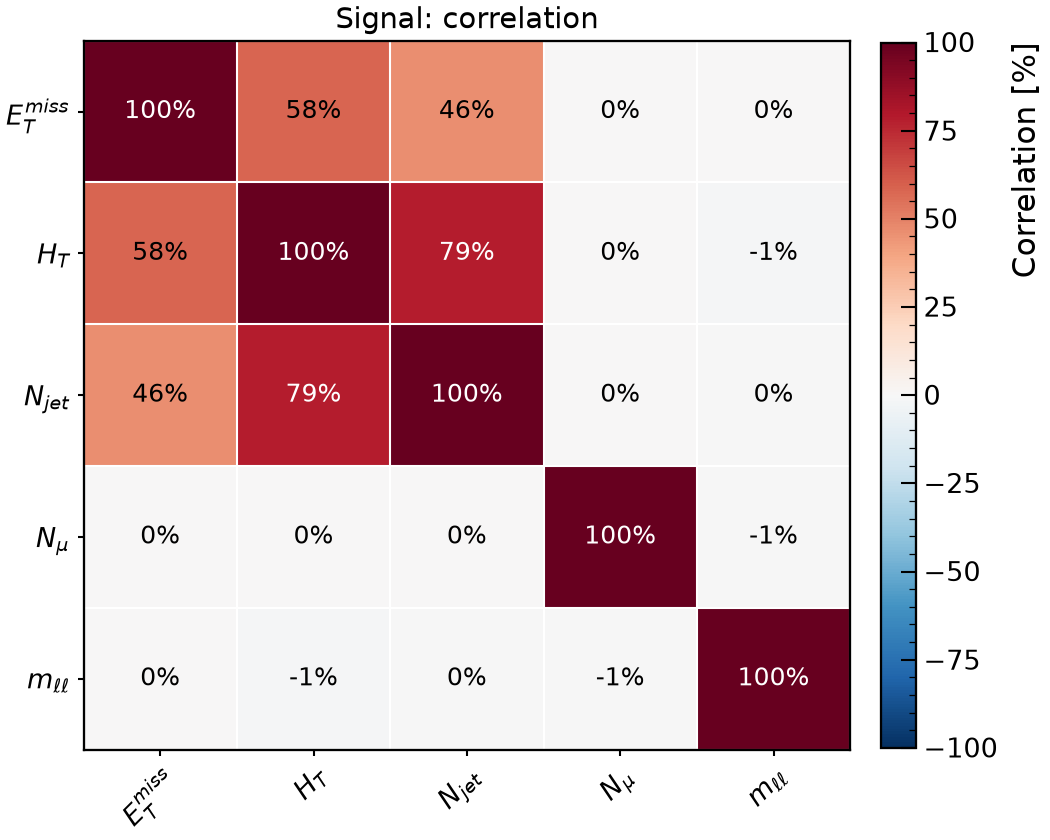
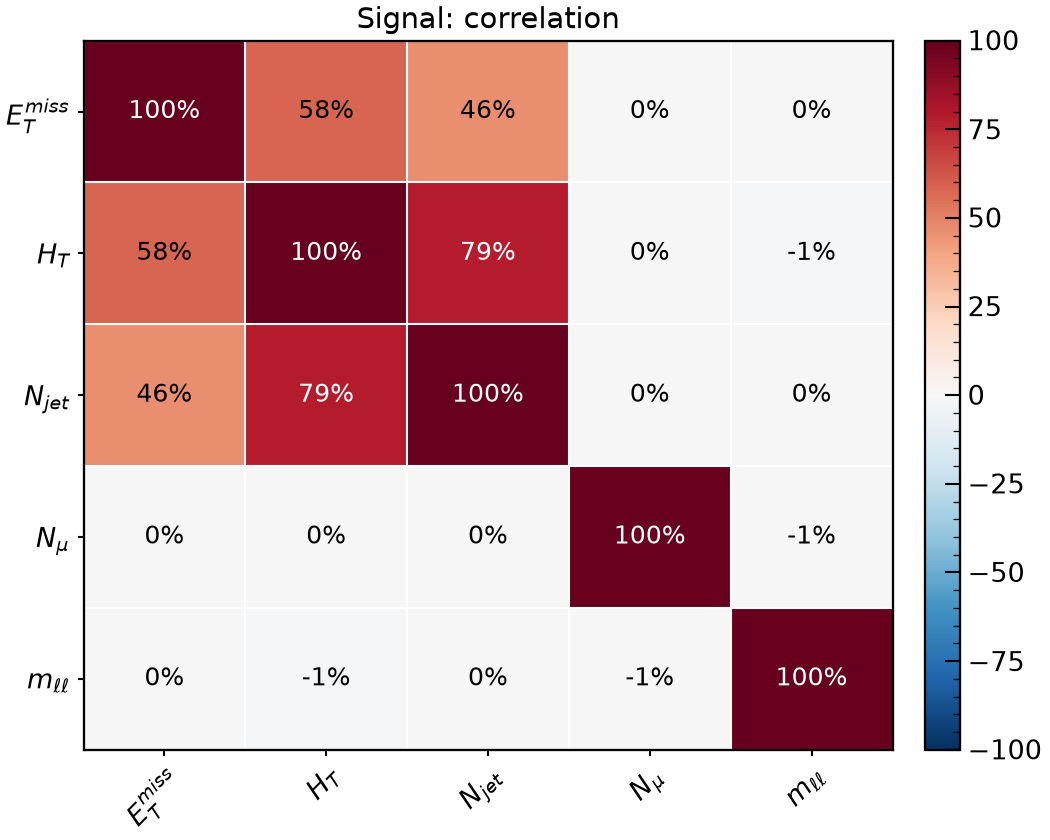
Simplify gallery colour-bar labels and improve README spacing

diff --git a/examples/gallery/__init__.py b/examples/gallery/__init__.py
@@ -340,28 +340,31 @@ def arrays() -> rf.Plot:
 def hist2d(signal: rf.Sample, met: rf.Variable) -> rf.Plot:
     """``rf.plot2d`` fills a 2D histogram of one sample; both variables must have the same
     structure (both per-event here). ``logz`` and ``cmap`` control the colour scale."""
-    return rf.plot2d(
+    p = rf.plot2d(
         signal,
         rf.Variable("sum(Jet_pt)", bins=(40, 0, 800), label=r"$H_T$", unit="GeV"),
         met,
         selection="nJet >= 2",
         logz=True,
         cmap="magma",
-        zlabel="Events",
     )
+    p.fig.axes[-1].set_ylabel("")  # Omit the colour-bar title in this gallery layout.
+    return p
 
 
 @example("correlation", "A correlation matrix")
 def correlation(signal: rf.Sample) -> rf.Plot:
     """``rf.correlation`` computes the (weighted) linear correlation of several per-event
     quantities and draws it as an annotated matrix; ``percent=True`` labels cells in percent."""
-    return rf.correlation(
+    p = rf.correlation(
         signal,
         ["MET", "sum(Jet_pt)", "nJet", "nMuon", "m_ll"],
         labels=[r"$E_T^{miss}$", r"$H_T$", r"$N_{jet}$", r"$N_{\mu}$", r"$m_{\ell\ell}$"],
         percent=True,
         figsize=(7, 5.6),
     )
+    p.fig.axes[-1].set_ylabel("")  # Omit the colour-bar title in this gallery layout.
+    return p
 
 
 @example("luminosity", "Cross sections and a luminosity instead of hand-made scale factors")

diff --git a/README.md b/README.md
@@ -40,12 +40,14 @@ panels as your analysis grows. Every plot gives you a matplotlib figure to
 customise and save.
 
 <p align="center">
-  <a href="https://jbeirer.github.io/rootfig/gallery/#logarithmic-axes-with-log-spaced-bins"><img src="docs/images/gallery/log_axes.png" alt="Logarithmic axes with log-spaced bins" width="48%"></a>
-  <a href="https://jbeirer.github.io/rootfig/gallery/#a-broken-x-axis-peak-and-far-tail-without-the-empty-middle"><img src="docs/images/gallery/xbreak_ratio.png" alt="Broken x axis with a ratio panel" width="48%"></a>
+  <a href="https://jbeirer.github.io/rootfig/gallery/#logarithmic-axes-with-log-spaced-bins"><img src="docs/images/gallery/log_axes.png" alt="Logarithmic axes with log-spaced bins" width="46%"></a>
+  &nbsp;&nbsp;
+  <a href="https://jbeirer.github.io/rootfig/gallery/#a-broken-x-axis-peak-and-far-tail-without-the-empty-middle"><img src="docs/images/gallery/xbreak_ratio.png" alt="Broken x axis with a ratio panel" width="46%"></a>
 </p>
 <p align="center">
-  <a href="https://jbeirer.github.io/rootfig/gallery/#a-correlation-matrix"><img src="docs/images/gallery/correlation.png" alt="A correlation matrix" width="48%"></a>
-  <a href="https://jbeirer.github.io/rootfig/gallery/#a-two-dimensional-histogram"><img src="docs/images/gallery/hist2d.png" alt="Two-dimensional histogram" width="48%"></a>
+  <a href="https://jbeirer.github.io/rootfig/gallery/#a-correlation-matrix"><img src="docs/images/gallery/correlation.png" alt="A correlation matrix" width="46%"></a>
+  &nbsp;&nbsp;
+  <a href="https://jbeirer.github.io/rootfig/gallery/#a-two-dimensional-histogram"><img src="docs/images/gallery/hist2d.png" alt="Two-dimensional histogram" width="46%"></a>
 </p>
 
 **[Explore the gallery →](https://jbeirer.github.io/rootfig/gallery/)**
